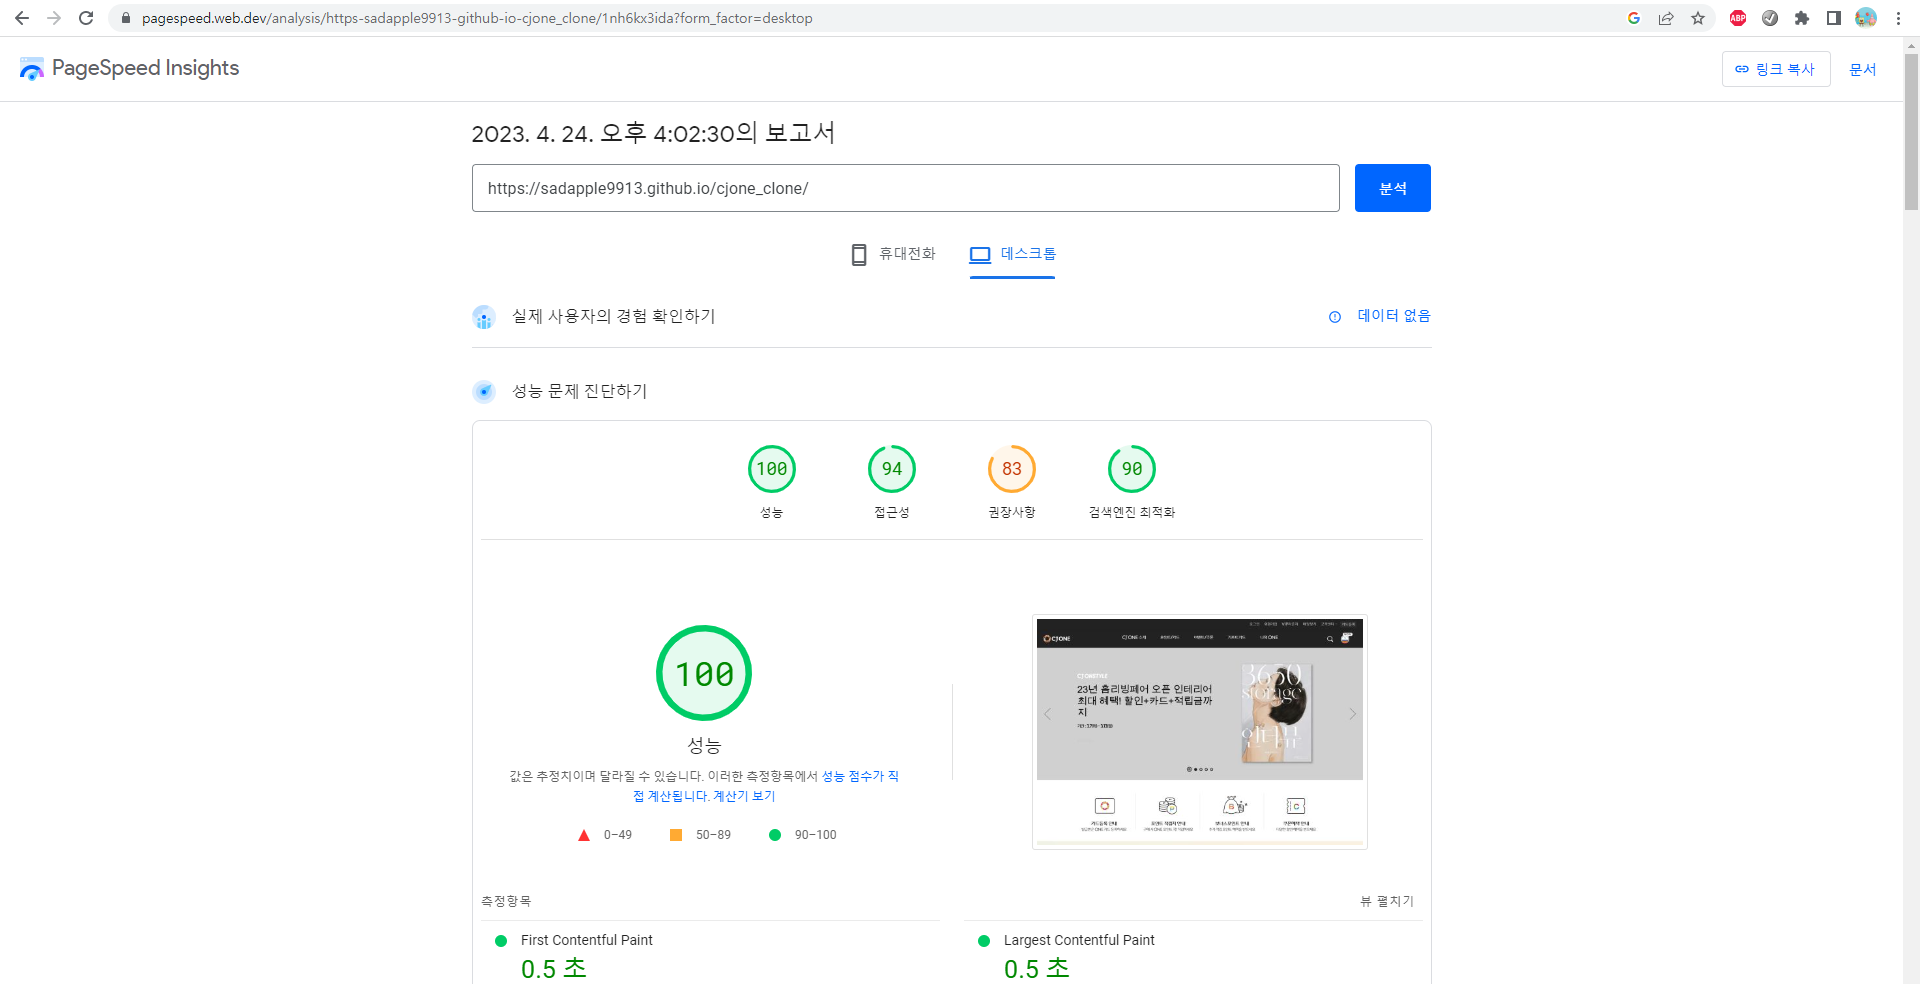
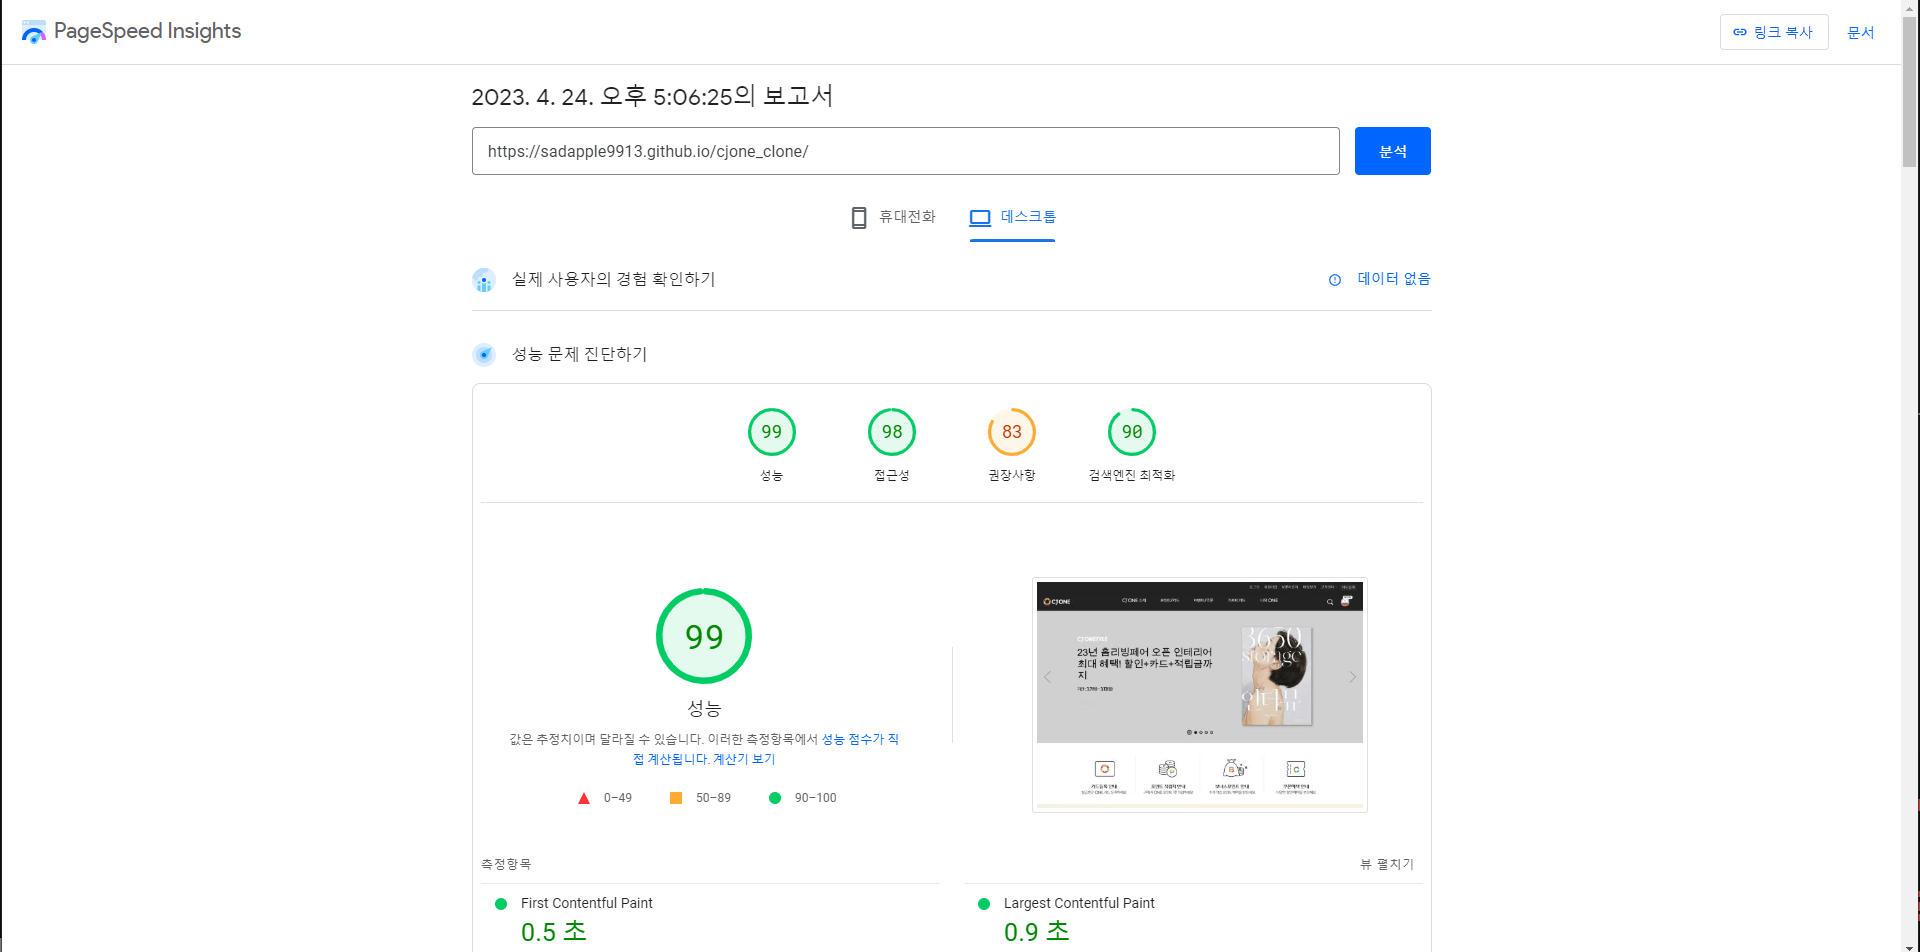
웹접근성 완료

diff --git a/index.html b/index.html
@@ -97,7 +97,7 @@
     <!-- 1 -->
     <section class='white'>
       <div>
-        <h3><img src="images/20230306_186b44e931331.png" alt="CJONE STYLE" /></h3>
+       <img src="images/20230306_186b44e931331.png" alt="CJONE STYLE" />
         <ul>
         <li>23년 홈리빙페어 오픈
             인테리어 최대 혜택!
@@ -110,7 +110,7 @@
     <!-- 2 -->
     <section>
       <div>
-        <h3><img src="images/20230103_18574cfc9fe41.png" alt="CJONE" /></h3>
+        <img src="images/20230103_18574cfc9fe41.png" alt="CJONE" />
         <ul>
           <li>CJ 통합 옴니서비스
             동의하면 누구나
@@ -123,7 +123,7 @@
     <!-- 3 -->
     <section>
       <div>
-        <h3><img src="images/20230103_18574cfc9fe41.png" alt="CJONE" /></h3>
+        <img src="images/20230103_18574cfc9fe41.png" alt="CJONE" />
         <ul>
           <li>CJ ONE WEEK
             빛의 벙커
@@ -137,7 +137,7 @@
     <!-- 4 -->
     <section>
       <div>
-        <h3><img src="images/20230103_18574cfc9fe41.png" alt="CJONE" /></h3>
+        <img src="images/20230103_18574cfc9fe41.png" alt="CJONE" />
         <ul>
           <li>CJ ONE WEEK
             석파정 서울미술관
